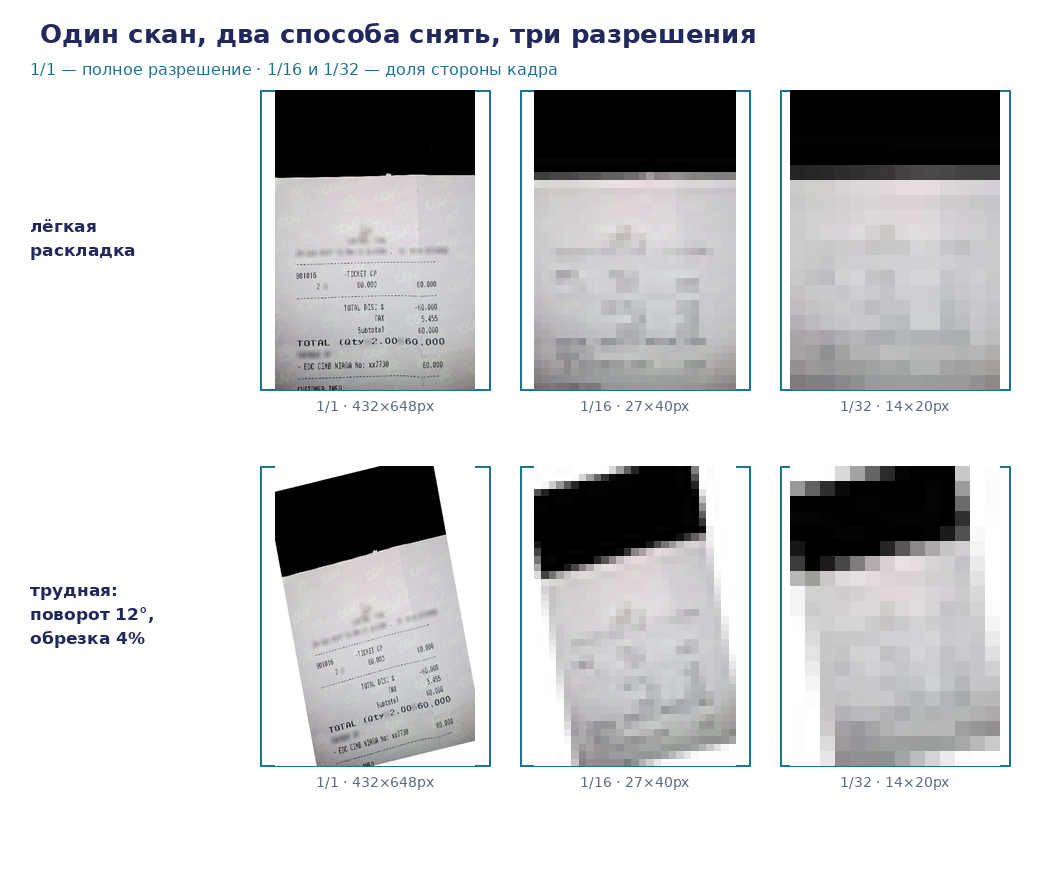
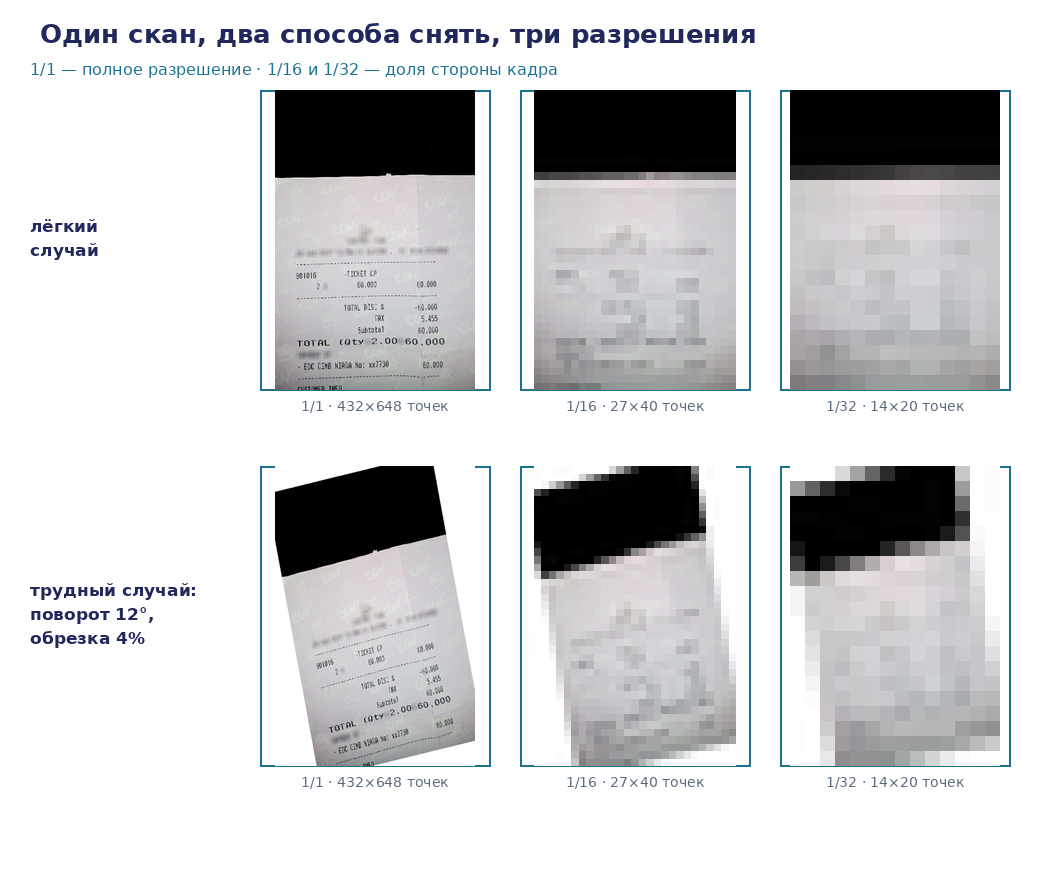
fix(sem-12): drop px and name the actual degradation on k1-degradation-grid.png (#351)
Six captions ("1/1 · 432×648px" etc.) changed to "... точек" — same
fix pattern as the earlier k1-fp-miss-chart.png px fix, applied here
since this chart was missed in that pass.

Row labels "лёгкая раскладка" / "трудная: поворот 12°, обрезка 4%"
renamed to "лёгкий случай" / "трудный случай: поворот 12°, обрезка
4%" — "раскладка" named nothing; "случай" matches the vocabulary
used everywhere else in this case (easy/hard query sets etc.) and the
degradation applied (rotation + crop) is now named on both rows
consistently with the hard row's existing detail.

Re-rendered k1-degradation-grid.png and opened it by eye: confirmed
no "px" remains and both row labels read naturally.

diff --git a/library/seminars/sem-12/rendered/make_figures_k1.py b/library/seminars/sem-12/rendered/make_figures_k1.py
@@ -276,7 +276,7 @@ def k1_degradation_grid():
     d.text((pad, 60), "1/1 — полное разрешение · 1/16 и 1/32 — доля стороны кадра",
            font=f(16), fill=LIGHT)
 
-    row_labels = [["лёгкая", "раскладка"], ["трудная:", "поворот 12°,", "обрезка 4%"]]
+    row_labels = [["лёгкий", "случай"], ["трудный случай:", "поворот 12°,", "обрезка 4%"]]
     for ri, maker in enumerate((easy, hard)):
         y0 = 90 + ri * (cell_h + label_h + pad)
         lbl = row_labels[ri]
@@ -287,7 +287,7 @@ def k1_degradation_grid():
             thumb = maker(scale)
             # масштабируем превью под клетку, сохраняя пропорции, крупно —
             # мелкие разрешения увеличены для показа деградации, а не чтобы
-            # соврать про реальный размер файла (подпись называет реальные px)
+            # соврать про реальный размер файла (подпись называет реальные точки)
             disp = thumb.copy()
             ratio = min(cell_w / disp.width, cell_h / disp.height)
             disp = disp.resize((max(1, round(disp.width * ratio)),
@@ -298,7 +298,7 @@ def k1_degradation_grid():
             cy = y0 + (cell_h - disp.height) // 2
             d.rectangle([x0, y0, x0 + cell_w, y0 + cell_h], outline=LIGHT, width=2)
             im.paste(disp, (cx, cy))
-            cap = f"{name} · {thumb.width}×{thumb.height}px"
+            cap = f"{name} · {thumb.width}×{thumb.height} точек"
             clabel(d, x0 + cell_w / 2, y0 + cell_h + 8, cap, 14, MUTE,
                    where=f"подпись {name}/{ri}")
     save(im, "k1-degradation-grid.png")
